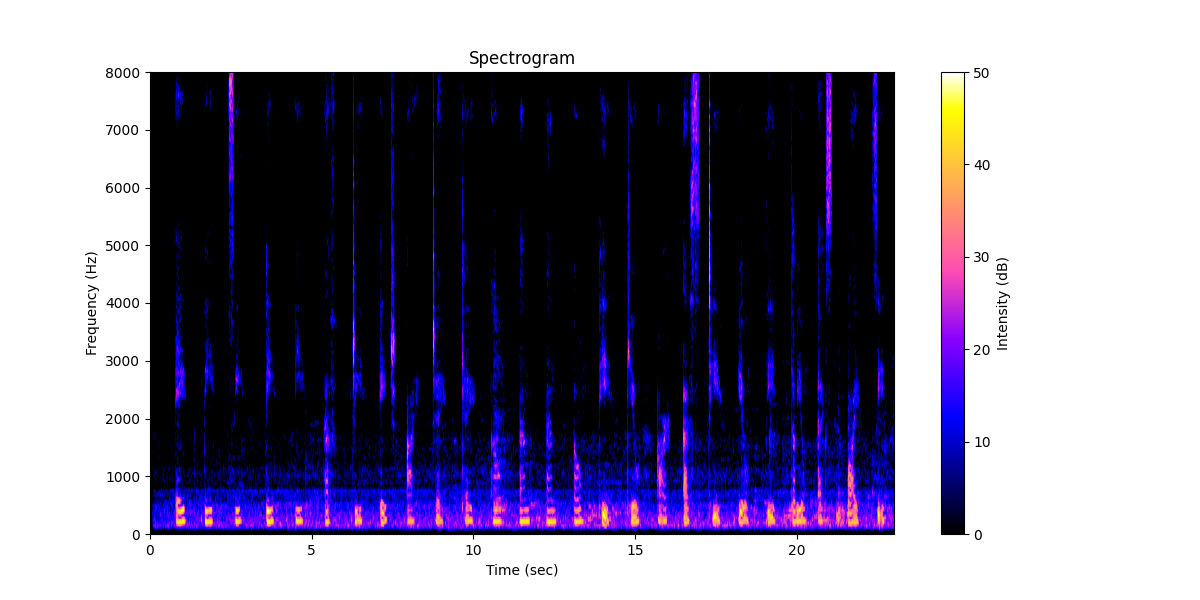
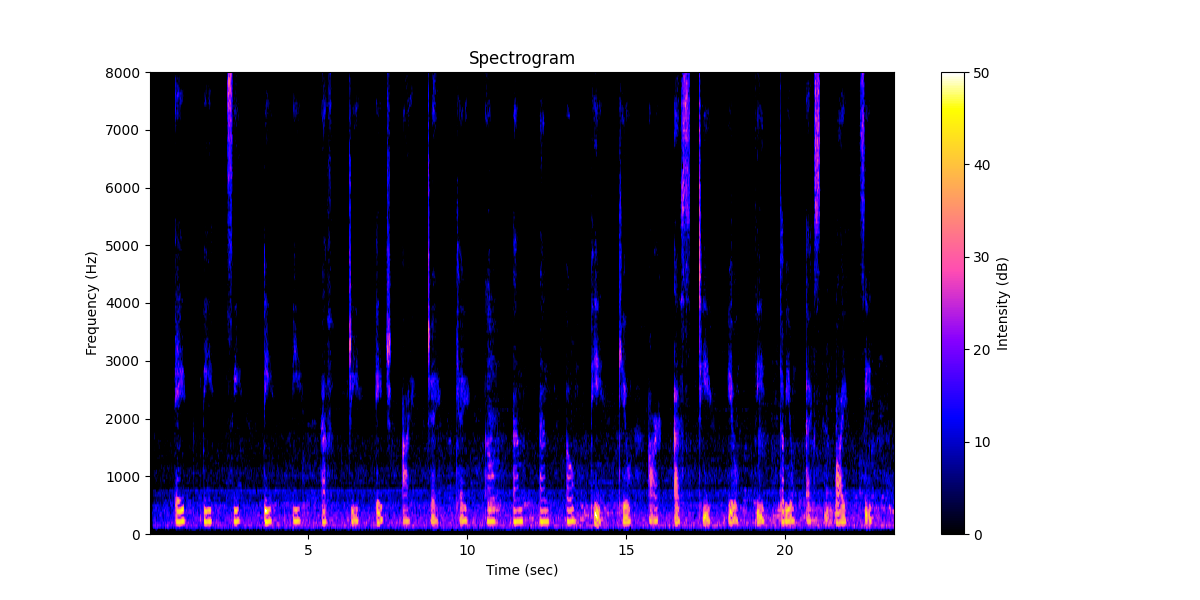
update

Changed region(s): [[0.1233, 0.12, 0.7708, 0.93]]

diff --git a/speech_analysis.py b/speech_analysis.py
@@ -1,0 +1,104 @@
+import numpy as np
+import matplotlib.pyplot as plt
+import wave
+from scipy.signal import butter, filtfilt
+
+
+def openfile(file_name):
+    with wave.open(file_name, 'r') as wav_file:
+        signal = wav_file.readframes(-1)
+        signal = np.frombuffer(signal, dtype='int16')
+        rate = wav_file.getframerate()
+
+        if wav_file.getnchannels() == 2:
+            signal = signal[::2]
+
+        return signal, rate
+
+
+def butter_bandpass(lowcut, highcut, fs, order=5):
+    nyq = 0.5 * fs
+    low = lowcut / nyq
+    high = highcut / nyq
+    b, a = butter(order, [low, high], btype='band')
+    return b, a
+
+
+def bandpass_filter(data, lowcut, highcut, fs, order=5):
+    b, a = butter_bandpass(lowcut, highcut, fs, order=order)
+    y = filtfilt(b, a, data)
+    return y
+
+
+def fft_segment(signal, fs):
+    fft_spectrum = np.fft.fft(signal)
+    return np.abs(fft_spectrum)
+
+
+def average_amplitude_per_band(signal, fs, segment_duration, frequency_bands):
+    num_segments = int(len(signal) / (segment_duration * fs))
+    time_steps = np.arange(num_segments) * segment_duration
+    avg_amplitudes_over_time = {band: [] for band in frequency_bands}
+
+    for band in frequency_bands:
+        filtered_signal = bandpass_filter(signal, band[0], band[1], fs)
+        if np.isnan(filtered_signal).any():
+            print(f"NaN values detected in the band: {band[0]}-{band[1]} Hz")
+
+        for i in range(num_segments):
+            start = int(i * segment_duration * fs)
+            end = int(start + segment_duration * fs)
+            segment = filtered_signal[start:end]
+            fft_amplitude = fft_segment(segment, fs)
+
+            avg_amplitude = np.mean(fft_amplitude)
+            avg_amplitudes_over_time[band].append(avg_amplitude)
+
+    return time_steps, avg_amplitudes_over_time
+
+
+def analysis(file_name):
+    segment_duration = 0.005
+    frequency_bands = [(max(120, i * 800), (i + 1) * 800) for i in range(10)]
+
+    signal, fs = openfile(file_name)
+
+    time_steps, avg_amplitudes_over_time = average_amplitude_per_band(signal, fs, segment_duration, frequency_bands)
+
+    plt.figure(figsize=(12, 6))
+    plt.specgram(signal, Fs=fs, NFFT=1024, noverlap=900, cmap="gnuplot2")
+    plt.clim(0, 50)
+    plt.xlabel("Time (sec)")
+    plt.ylabel("Frequency (Hz)")
+    plt.title("Spectrogram")
+    plt.ylim(0, 8000)
+    plt.colorbar(label="Intensity (dB)")
+    plt.show()
+
+    plt.figure(figsize=(15, 20))
+    for idx, (band, amplitudes) in enumerate(avg_amplitudes_over_time.items(), 1):
+        plt.subplot(8, 2, idx)
+        plt.plot(time_steps, amplitudes, label=f'{band[0]}-{band[1]} Hz')
+        plt.title(f'Average Amplitude: {band[0]}-{band[1]} Hz')
+        plt.xlabel("Time (s)")
+        plt.ylabel("Amplitude")
+        plt.legend()
+        plt.tight_layout()
+
+    colors = plt.cm.viridis(np.linspace(0, 1, len(frequency_bands)))
+
+    plt.figure(figsize=(12, 6))
+    for (band, amplitudes), color in zip(avg_amplitudes_over_time.items(), colors):
+        plt.plot(time_steps, amplitudes, label=f'{band[0]}-{band[1]} Hz', color=color)
+
+    plt.title("Average Amplitude over Time for Frequency Bands")
+    plt.xlabel("Time (s)")
+    plt.ylabel("Amplitude")
+    plt.legend()
+    plt.tight_layout()
+
+
+analysis("recordings/alpha.wav")
+analysis("recordings/-f-.wav")
+analysis("recordings/-k-.wav")
+plt.show()

diff --git a/README.md b/README.md
@@ -4,18 +4,26 @@ Joseph Ho, Karina Buttram
 ## Answers
 A. The speech recordings are [here](/recordings), which consist of a reading of the alphabet, and the sounds /f/ and /k/ for comparison.
 
-B. The code for the speech recognition is [here](/speech_processing.py).
+B. The code for the speech recognition is [here](/speech_analysis.py).
 
 C. 
 
-D. /f/ and /k/ sounds have differences in their frequency content. 
+D. /f/ and /k/ sounds have major differences in their frequencies and amplitudes.
 
-Here is the spectrogram for the /f/ sound:
+For the /f/ sound:
 
 ![spectrogram_f](figures/spectrogram_f.png)
 
-Here is the spectrogram for the /k/ sound:
+![avgAmpIndiv_f](figures/avgAmpIndiv_f.png)
+
+![avgAmpComb_f](figures/avgAmpComb_f.png)
+
+For the /k/ sound:
 
 ![spectrogram_k](figures/spectrogram_k.png)
+
+![avgAmpIndiv_k](figures/avgAmpIndiv_k.png)
+
+![avgAmpComb_k](figures/avgAmpComb_k.png)
 
 E.
